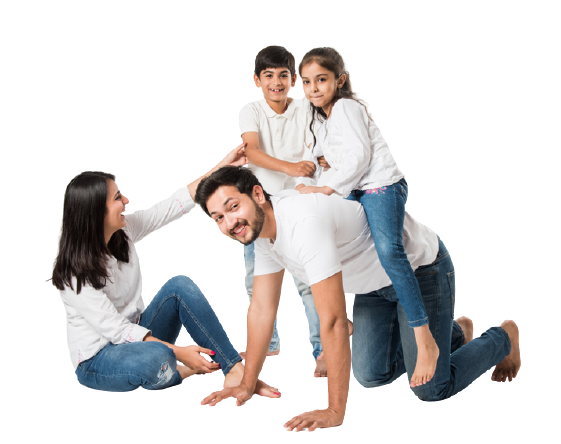
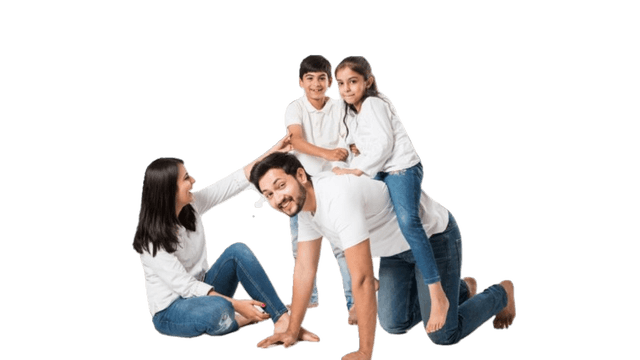
slider update

diff --git a/index.html b/index.html
@@ -110,7 +110,8 @@
                                 <p>
                                     The harder you work for something, the greater you’ll feel when you achieve it.
                                 </p>
-                                <button type="button" class="btn btn-outline-secondary">APPLY ONLINE</button>
+                                <button type="button" class="btn btn-outline-light">APPLY
+                                    ONLINE</button>
                                 <button type="button" class="btn btn-dark ms-2">LOAN CALCULATOR </button>
                             </div>
                             <div class="col-lg-7">
@@ -121,32 +122,39 @@
                     <div class="carousel-item">
                         <div class="row d-flex align-items-center">
                             <div class="col-lg-5 ps-4">
-                                <h1 class="mb-4 text-light shadow p-4 rounded-5 ">This is a world that is built for your
+                                <h1 class="mb-4 text-light bg-dark p-4 rounded-3 ">This is a world that is built for
+                                    your
                                     passions</h1>
                                 <p>Complimentary Priority Pass membership and unlimited access to over 1200 Priority
                                     Pass airport lounges worldwide. Enjoy complimentary one night stay at Tower Building
                                     in The Palace Luxury Resort after paying only for the first night on weekdays.</p>
-                                <button type="button" class="btn btn-outline-secondary">APPLY ONLINE</button>
+                                <button type="button" class="btn btn-outline-light">APPLY
+                                    ONLINE</button>
                                 <button type="button" class="btn btn-dark ms-2">LOAN CALCULATOR </button>
                             </div>
                             <div class="col-lg-7">
-                                <img src="images/slider/family.png" class="d-block w-100" alt="...">
+                                <img src="images/slider/slider-3.png" class="d-block w-100" alt="...">
                             </div>
                         </div>
                     </div>
-                    <div class="carousel-item">
+                    <div class="carousel-item bg-dark">
                         <div class="row d-flex align-items-center">
-                            <div class="col-lg-5 ps-4">
-                                <h1 class="mb-4 text-light">Experience Banking on the go with CSI Digital Banking</h1>
-                                <p>
-                                    <li>Instantly open FD and DPS account without visiting the branch</li> <br>
-                                    <li>Avail up to 90% loan facility against your FD and DPS account</li> <button
-                                        type="button" class="btn btn-outline-secondary">APPLY ONLINE</button>
-                                    <button type="button" class="btn btn-dark ms-2">LOAN CALCULATOR </button>
+                            <div class="col-lg-5 ps-5">
+                                <h1 class="mb-4 text-dark bg-light p-4 rounded-3">Experience Banking on the go with CSI
+                                    Digital Banking</h1>
+                                <p class="text-white">
+                                    Instantly open FD and DPS account without visiting the branch.
+                                    Avail up to 90% loan facility against your FD and DPS account.
+                                <div>
+                                    <button type="button" class="btn btn-outline-light">APPLY
+                                        ONLINE</button>
+                                    <button type="button" class="btn btn btn-light ms-2">LOAN CALCULATOR </button>
+                                </div>
                                 </p>
                             </div>
                             <div class="col-lg-7">
-                                <img src="images/slider/family.png" class="d-block w-100" alt="...">
+                                <img src="images/slider/Promo-YouTube-YouTube banner (1).jpeg" class="d-block w-100"
+                                    alt="...">
                             </div>
 
                         </div>
@@ -328,10 +336,13 @@
                     <div class="row gy-5">
                         <div class="col-lg-3 col-md-6 col-12">
                             <div class="p-3 border bg-success bg-gradient text-white  why-us">
+
                                 <img src="images/icon/2020-11-23-5fbb3f987cab9.png" alt="">
                                 <h5>LARGEST FINANCIAL INSTITUTION</h5>
+
                                 <hr>
-                                <p><small>40 branches across the country serving your every need</small></p>
+                                <p><small>40 branches across the country serving your every need</small>
+                                </p>
                             </div>
                         </div>
                         <div class="col-lg-3 col-md-6 col-12">

diff --git a/css/style.css b/css/style.css
@@ -32,6 +32,7 @@ border-radius: 5px;
 .search__box:hover .search__input {
     width: 200px;
     padding: 0 6px;
+    
 }
 
 .search__btn{
